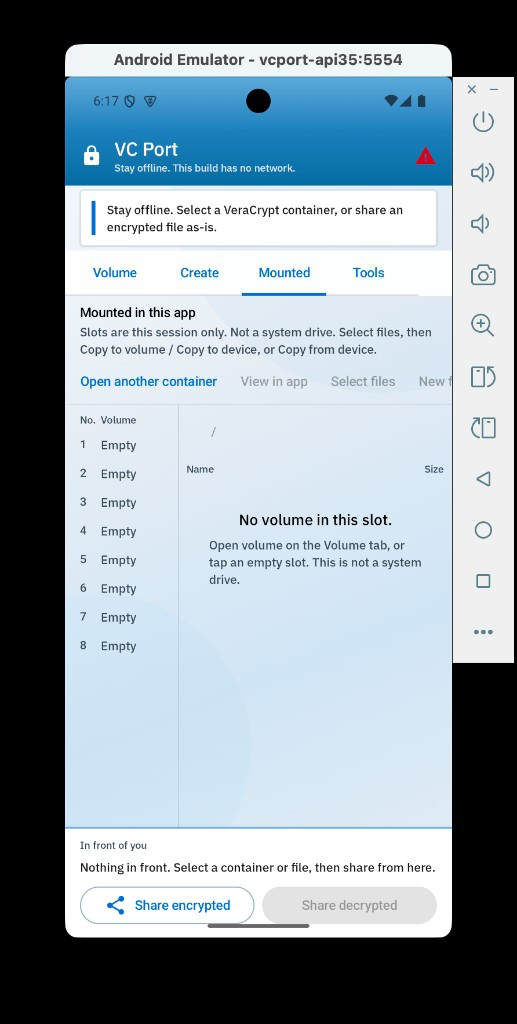
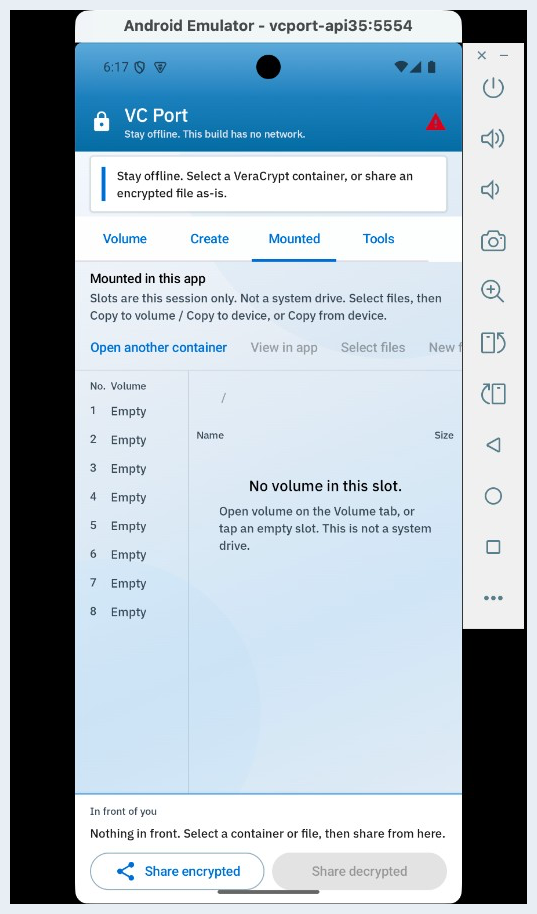
Fix screenshot black letterbox and dark mode bar colors.
Crop FLAG_SECURE black bands, add a subtle matte for GitHub dark mode, sync status/navigation bars with the active skin, and lighten dark-mode label contrast.

diff --git a/ports/android/app/src/main/java/dev/shivampingale/vcport/VcPortTheme.kt b/ports/android/app/src/main/java/dev/shivampingale/vcport/VcPortTheme.kt
@@ -1,5 +1,6 @@
 package dev.shivampingale.vcport
 
+import android.app.Activity
 import androidx.compose.animation.AnimatedVisibility
 import androidx.compose.animation.core.LinearEasing
 import androidx.compose.animation.core.RepeatMode
@@ -53,6 +54,7 @@ import androidx.compose.material3.darkColorScheme
 import androidx.compose.material3.lightColorScheme
 import androidx.compose.runtime.Composable
 import androidx.compose.runtime.CompositionLocalProvider
+import androidx.compose.runtime.SideEffect
 import androidx.compose.runtime.compositionLocalOf
 import androidx.compose.runtime.getValue
 import androidx.compose.runtime.mutableStateListOf
@@ -67,6 +69,7 @@ import androidx.compose.ui.geometry.Size
 import androidx.compose.ui.graphics.Brush
 import androidx.compose.ui.graphics.Color
 import androidx.compose.ui.graphics.CompositingStrategy
+import androidx.compose.ui.graphics.toArgb
 import androidx.compose.ui.graphics.Path
 import androidx.compose.ui.graphics.graphicsLayer
 import androidx.compose.ui.graphics.StrokeCap
@@ -74,7 +77,9 @@ import androidx.compose.ui.graphics.StrokeJoin
 import androidx.compose.ui.graphics.drawscope.Stroke
 import androidx.compose.ui.graphics.nativeCanvas
 import androidx.compose.ui.input.pointer.pointerInput
+import androidx.compose.ui.platform.LocalView
 import androidx.compose.ui.platform.testTag
+import androidx.core.view.WindowCompat
 import androidx.compose.ui.text.TextStyle
 import androidx.compose.ui.text.font.Font
 import androidx.compose.ui.text.font.FontFamily
@@ -144,7 +149,7 @@ private val SignalScheme = darkColorScheme(
     surface = Color(0xE61B1D24),
     onSurface = Color(0xFFE8EAED),
     surfaceVariant = Color(0xFF252830),
-    onSurfaceVariant = Color(0xFF9AA0A6),
+    onSurfaceVariant = Color(0xFFB8BEC6),
     outline = SigBlue,
     error = Color(0xFFD04A3C),
     onError = Color.White
@@ -208,6 +213,22 @@ private fun typeFor(skin: VcSkin): Typography {
 @Composable
 fun VcPortTheme(skin: VcSkin = VcSkin.Desktop, content: @Composable () -> Unit) {
     val scheme = schemeFor(skin)
+    val view = LocalView.current
+    if (!view.isInEditMode) {
+        SideEffect {
+            val window = (view.context as Activity).window
+            val statusBar = when (skin) {
+                VcSkin.Desktop -> android.graphics.Color.parseColor("#0A6CCE")
+                VcSkin.Signal -> android.graphics.Color.parseColor("#2E62D8")
+            }
+            window.statusBarColor = statusBar
+            window.navigationBarColor = scheme.background.toArgb()
+            val bars = WindowCompat.getInsetsController(window, view)
+            val lightBars = skin == VcSkin.Desktop
+            bars.isAppearanceLightStatusBars = lightBars
+            bars.isAppearanceLightNavigationBars = lightBars
+        }
+    }
     val round = if (skin == VcSkin.Signal) 16.dp else 4.dp
     CompositionLocalProvider(LocalVcSkin provides skin) {
         MaterialTheme(

diff --git a/ports/scripts/polish-screenshots.py b/ports/scripts/polish-screenshots.py
@@ -1,0 +1,82 @@
+#!/usr/bin/env python3
+"""Crop FLAG_SECURE black letterbox bands and add a subtle matte for README shots."""
+from __future__ import annotations
+
+import sys
+from pathlib import Path
+
+from PIL import Image
+
+SHOTS = Path(__file__).resolve().parents[1] / "docs" / "screenshots"
+PAD = 10
+MATTE_LIGHT = (232, 238, 244)  # WindowGray — light Original theme
+MATTE_DARK = (33, 38, 48)  # visible on GitHub dark without harsh pure black
+ROW_BLACK = 24  # max RGB sum to treat a row as letterbox black
+
+
+def row_mostly_black(im: Image.Image, y: int) -> bool:
+    w = im.width
+    step = max(1, w // 64)
+    dark = 0
+    total = 0
+    for x in range(0, w, step):
+        r, g, b = im.getpixel((x, y))
+        total += 1
+        if r + g + b <= ROW_BLACK:
+            dark += 1
+    return dark >= total * 0.92
+
+
+def content_bounds(im: Image.Image) -> tuple[int, int]:
+    w, h = im.size
+    top = 0
+    for y in range(h):
+        if not row_mostly_black(im, y):
+            top = y
+            break
+    bottom = h - 1
+    for y in range(h - 1, -1, -1):
+        if not row_mostly_black(im, y):
+            bottom = y
+            break
+    return top, bottom
+
+
+def matte_for(path: Path) -> tuple[int, int, int]:
+    if path.name.startswith("08-") or "skin-signal" in path.name:
+        return MATTE_DARK
+    return MATTE_LIGHT
+
+
+def polish(path: Path) -> bool:
+    im = Image.open(path).convert("RGB")
+    top, bottom = content_bounds(im)
+    if bottom <= top:
+        print(f"skip {path.name}: no content bounds")
+        return False
+    cropped = im.crop((0, top, im.width, bottom + 1))
+    matte = matte_for(path)
+    out = Image.new(
+        "RGB",
+        (cropped.width + PAD * 2, cropped.height + PAD * 2),
+        matte,
+    )
+    out.paste(cropped, (PAD, PAD))
+    out.save(path, format="PNG", optimize=True)
+    print(f"polished {path.name}: {im.size} -> {out.size}")
+    return True
+
+
+def main(argv: list[str]) -> int:
+    targets = [Path(p) for p in argv[1:]] if len(argv) > 1 else sorted(SHOTS.glob("*.png"))
+    ok = 0
+    for path in targets:
+        if not path.is_file() or "thumbs" in path.parts:
+            continue
+        if polish(path):
+            ok += 1
+    return 0 if ok else 1
+
+
+if __name__ == "__main__":
+    raise SystemExit(main(sys.argv))

diff --git a/README.md b/README.md
@@ -55,31 +55,31 @@ Emulator UI, empty tabs. Click a picture for full size. [How we capture these](p
 
 | Android | iPhone |
 | --- | --- |
-| [<img src="ports/docs/screenshots/thumbs/01-volume.png" alt="Android Volume 0.3.12" width="240">](ports/docs/screenshots/01-volume.png) | [<img src="ports/docs/screenshots/thumbs/ios-01-volume.png" alt="iPhone Volume 0.3.12" width="240">](ports/docs/screenshots/ios-01-volume.png) |
+| [<img src="ports/docs/screenshots/thumbs/01-volume.png" alt="Android Volume 0.3.12" width="240" style="border-radius:10px;border:1px solid #3d444d">](ports/docs/screenshots/01-volume.png) | [<img src="ports/docs/screenshots/thumbs/ios-01-volume.png" alt="iPhone Volume 0.3.12" width="240" style="border-radius:10px;border:1px solid #3d444d">](ports/docs/screenshots/ios-01-volume.png) |
 
 ### Create
 
 | Android | iPhone |
 | --- | --- |
-| [<img src="ports/docs/screenshots/thumbs/03-create.png" alt="Android Create 0.3.12" width="240">](ports/docs/screenshots/03-create.png) | [<img src="ports/docs/screenshots/thumbs/ios-03-create.png" alt="iPhone Create 0.3.12" width="240">](ports/docs/screenshots/ios-03-create.png) |
+| [<img src="ports/docs/screenshots/thumbs/03-create.png" alt="Android Create 0.3.12" width="240" style="border-radius:10px;border:1px solid #3d444d">](ports/docs/screenshots/03-create.png) | [<img src="ports/docs/screenshots/thumbs/ios-03-create.png" alt="iPhone Create 0.3.12" width="240" style="border-radius:10px;border:1px solid #3d444d">](ports/docs/screenshots/ios-03-create.png) |
 
 ### Mounted
 
 | Android | iPhone |
 | --- | --- |
-| [<img src="ports/docs/screenshots/thumbs/05-mounted.png" alt="Android Mounted 0.3.12" width="240">](ports/docs/screenshots/05-mounted.png) | [<img src="ports/docs/screenshots/thumbs/ios-05-mounted.png" alt="iPhone Mounted 0.3.12" width="240">](ports/docs/screenshots/ios-05-mounted.png) |
+| [<img src="ports/docs/screenshots/thumbs/05-mounted.png" alt="Android Mounted 0.3.12" width="240" style="border-radius:10px;border:1px solid #3d444d">](ports/docs/screenshots/05-mounted.png) | [<img src="ports/docs/screenshots/thumbs/ios-05-mounted.png" alt="iPhone Mounted 0.3.12" width="240" style="border-radius:10px;border:1px solid #3d444d">](ports/docs/screenshots/ios-05-mounted.png) |
 
 ### Tools
 
 | Android | iPhone |
 | --- | --- |
-| [<img src="ports/docs/screenshots/thumbs/04-tools.png" alt="Android Tools 0.3.12" width="240">](ports/docs/screenshots/04-tools.png) | [<img src="ports/docs/screenshots/thumbs/ios-04-tools.png" alt="iPhone Tools 0.3.12" width="240">](ports/docs/screenshots/ios-04-tools.png) |
+| [<img src="ports/docs/screenshots/thumbs/04-tools.png" alt="Android Tools 0.3.12" width="240" style="border-radius:10px;border:1px solid #3d444d">](ports/docs/screenshots/04-tools.png) | [<img src="ports/docs/screenshots/thumbs/ios-04-tools.png" alt="iPhone Tools 0.3.12" width="240" style="border-radius:10px;border:1px solid #3d444d">](ports/docs/screenshots/ios-04-tools.png) |
 
 ### Dark mode (Android)
 
 | Android |
 | --- |
-| [<img src="ports/docs/screenshots/thumbs/08-skin-signal.png" alt="Android dark mode 0.3.12" width="240">](ports/docs/screenshots/08-skin-signal.png) |
+| [<img src="ports/docs/screenshots/thumbs/08-skin-signal.png" alt="Android dark mode 0.3.12" width="240" style="border-radius:10px;border:1px solid #3d444d">](ports/docs/screenshots/08-skin-signal.png) |
 
 ## License (short)
 

diff --git a/ports/docs/screenshots/README.md b/ports/docs/screenshots/README.md
@@ -13,7 +13,7 @@ Real emulator UI — **no passwords, no opened folders, no fake store mockups**.
 ports/scripts/capture-screenshots.sh
 ```
 
-Writes full PNGs here and **480px-wide** previews in `thumbs/` (shown at 240px in the GitHub README for retina sharpness).
+Writes full PNGs here and **480px-wide** previews in `thumbs/` (shown at 240px in the GitHub README for retina sharpness). `polish-screenshots.py` crops FLAG_SECURE black letterbox bands and adds a light matte so shots look clean on GitHub dark mode.
 
 ## Files
 
